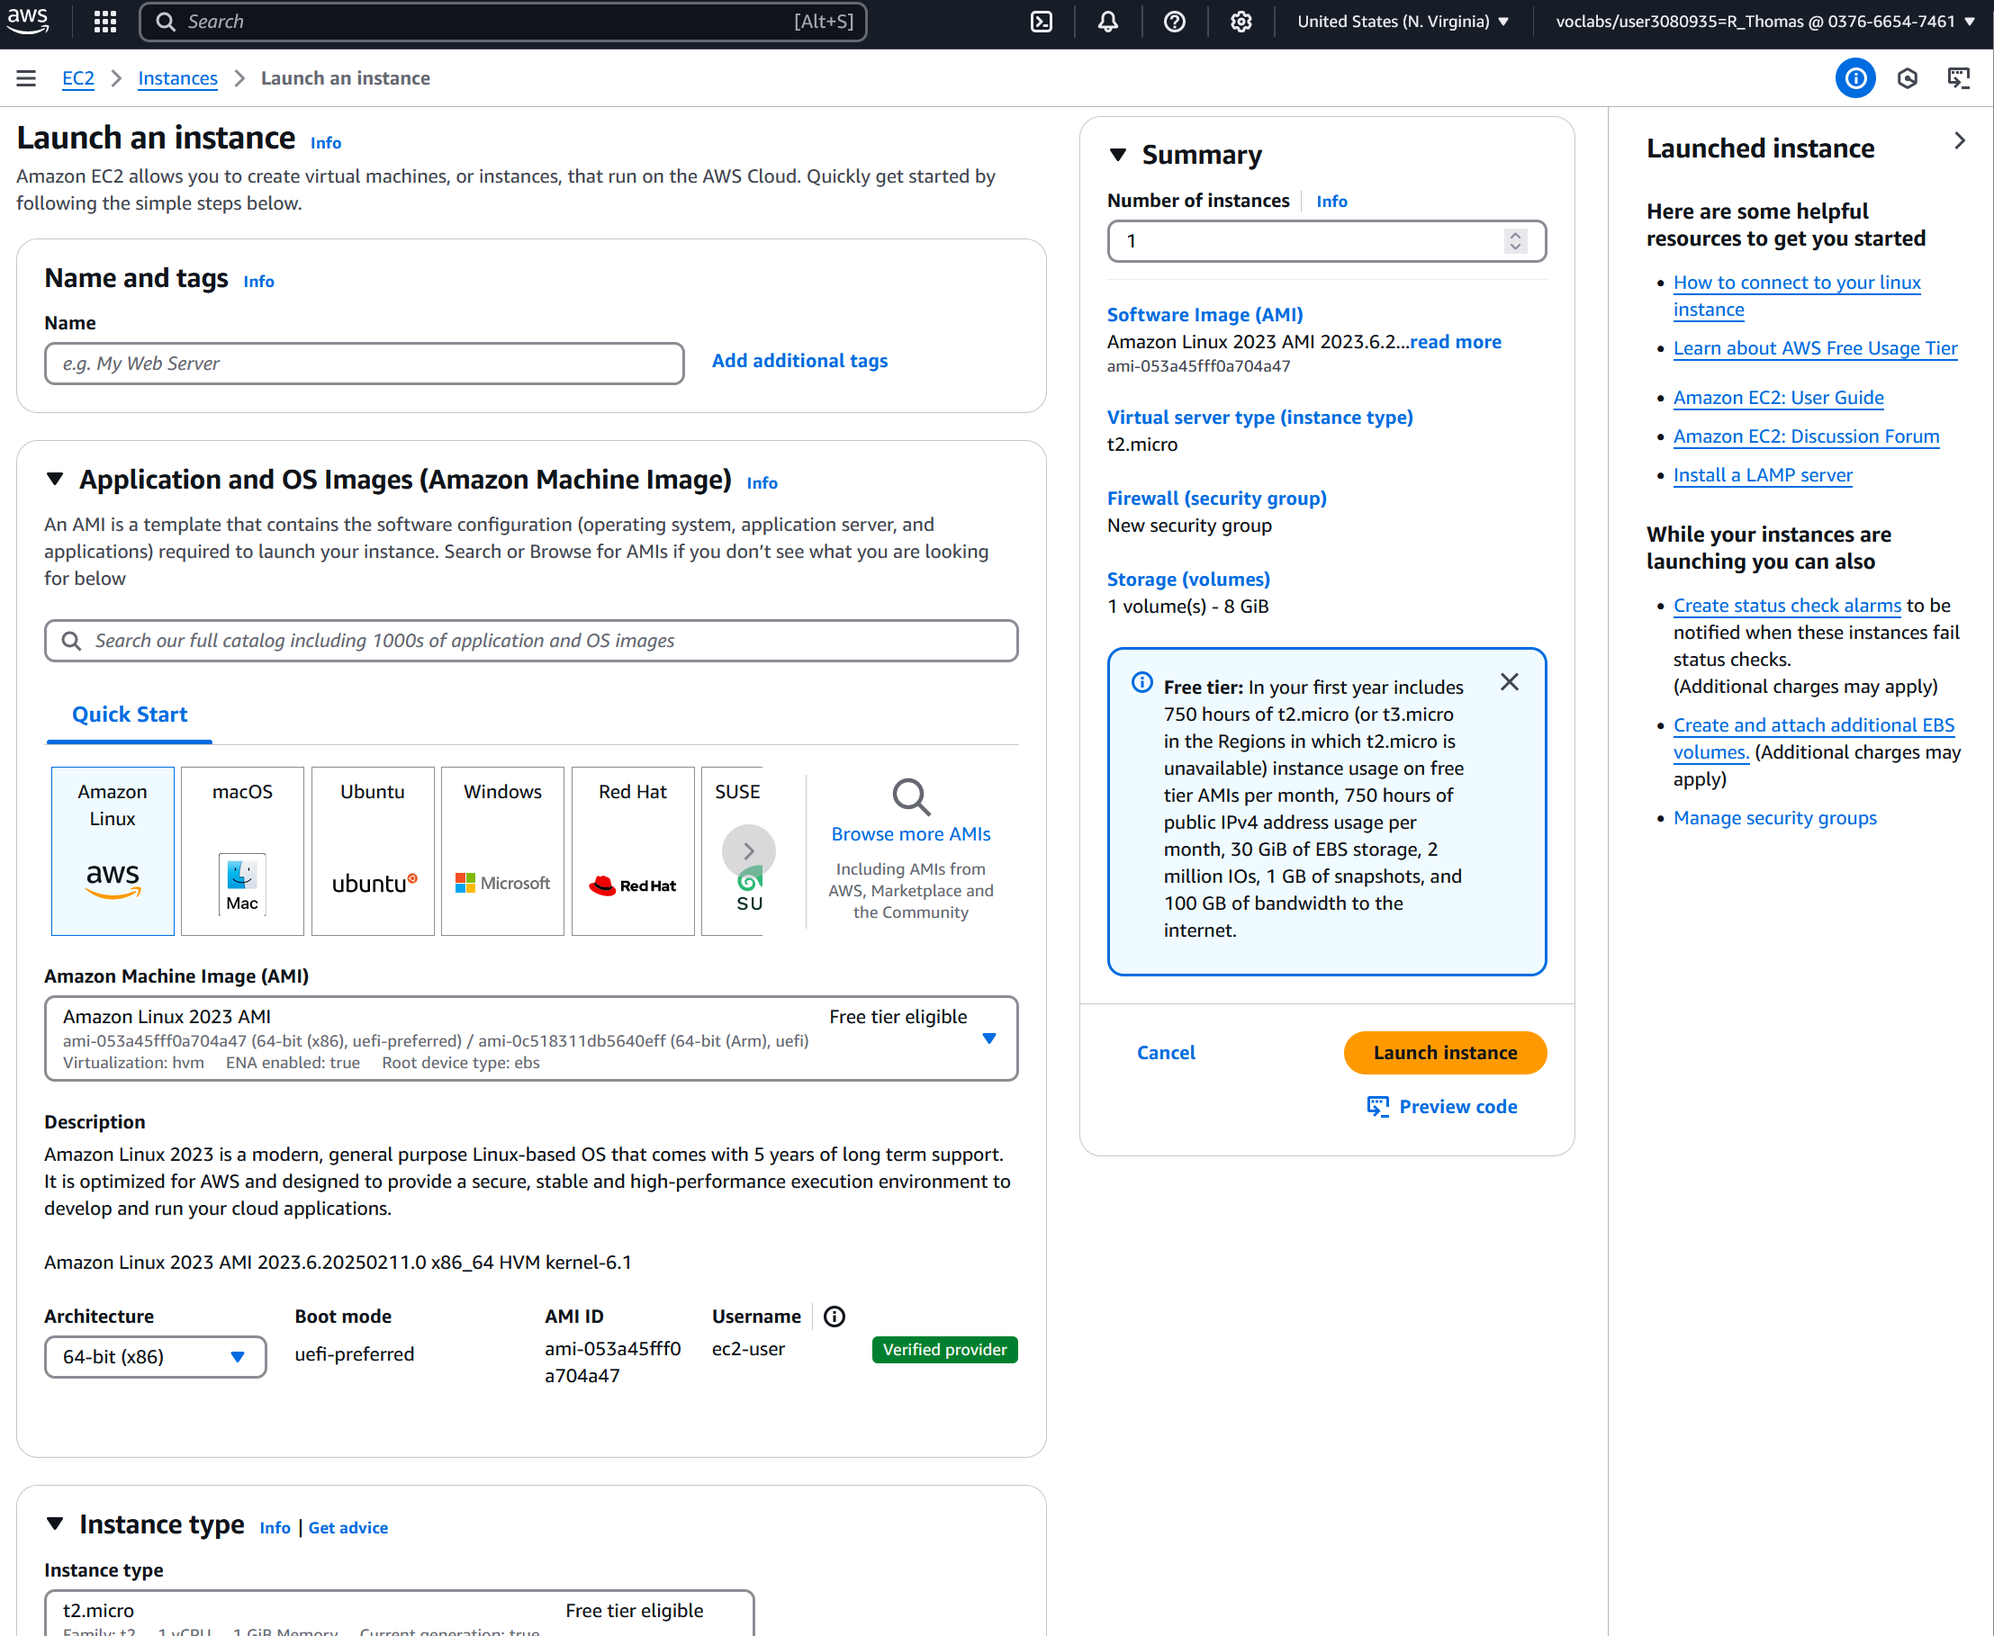
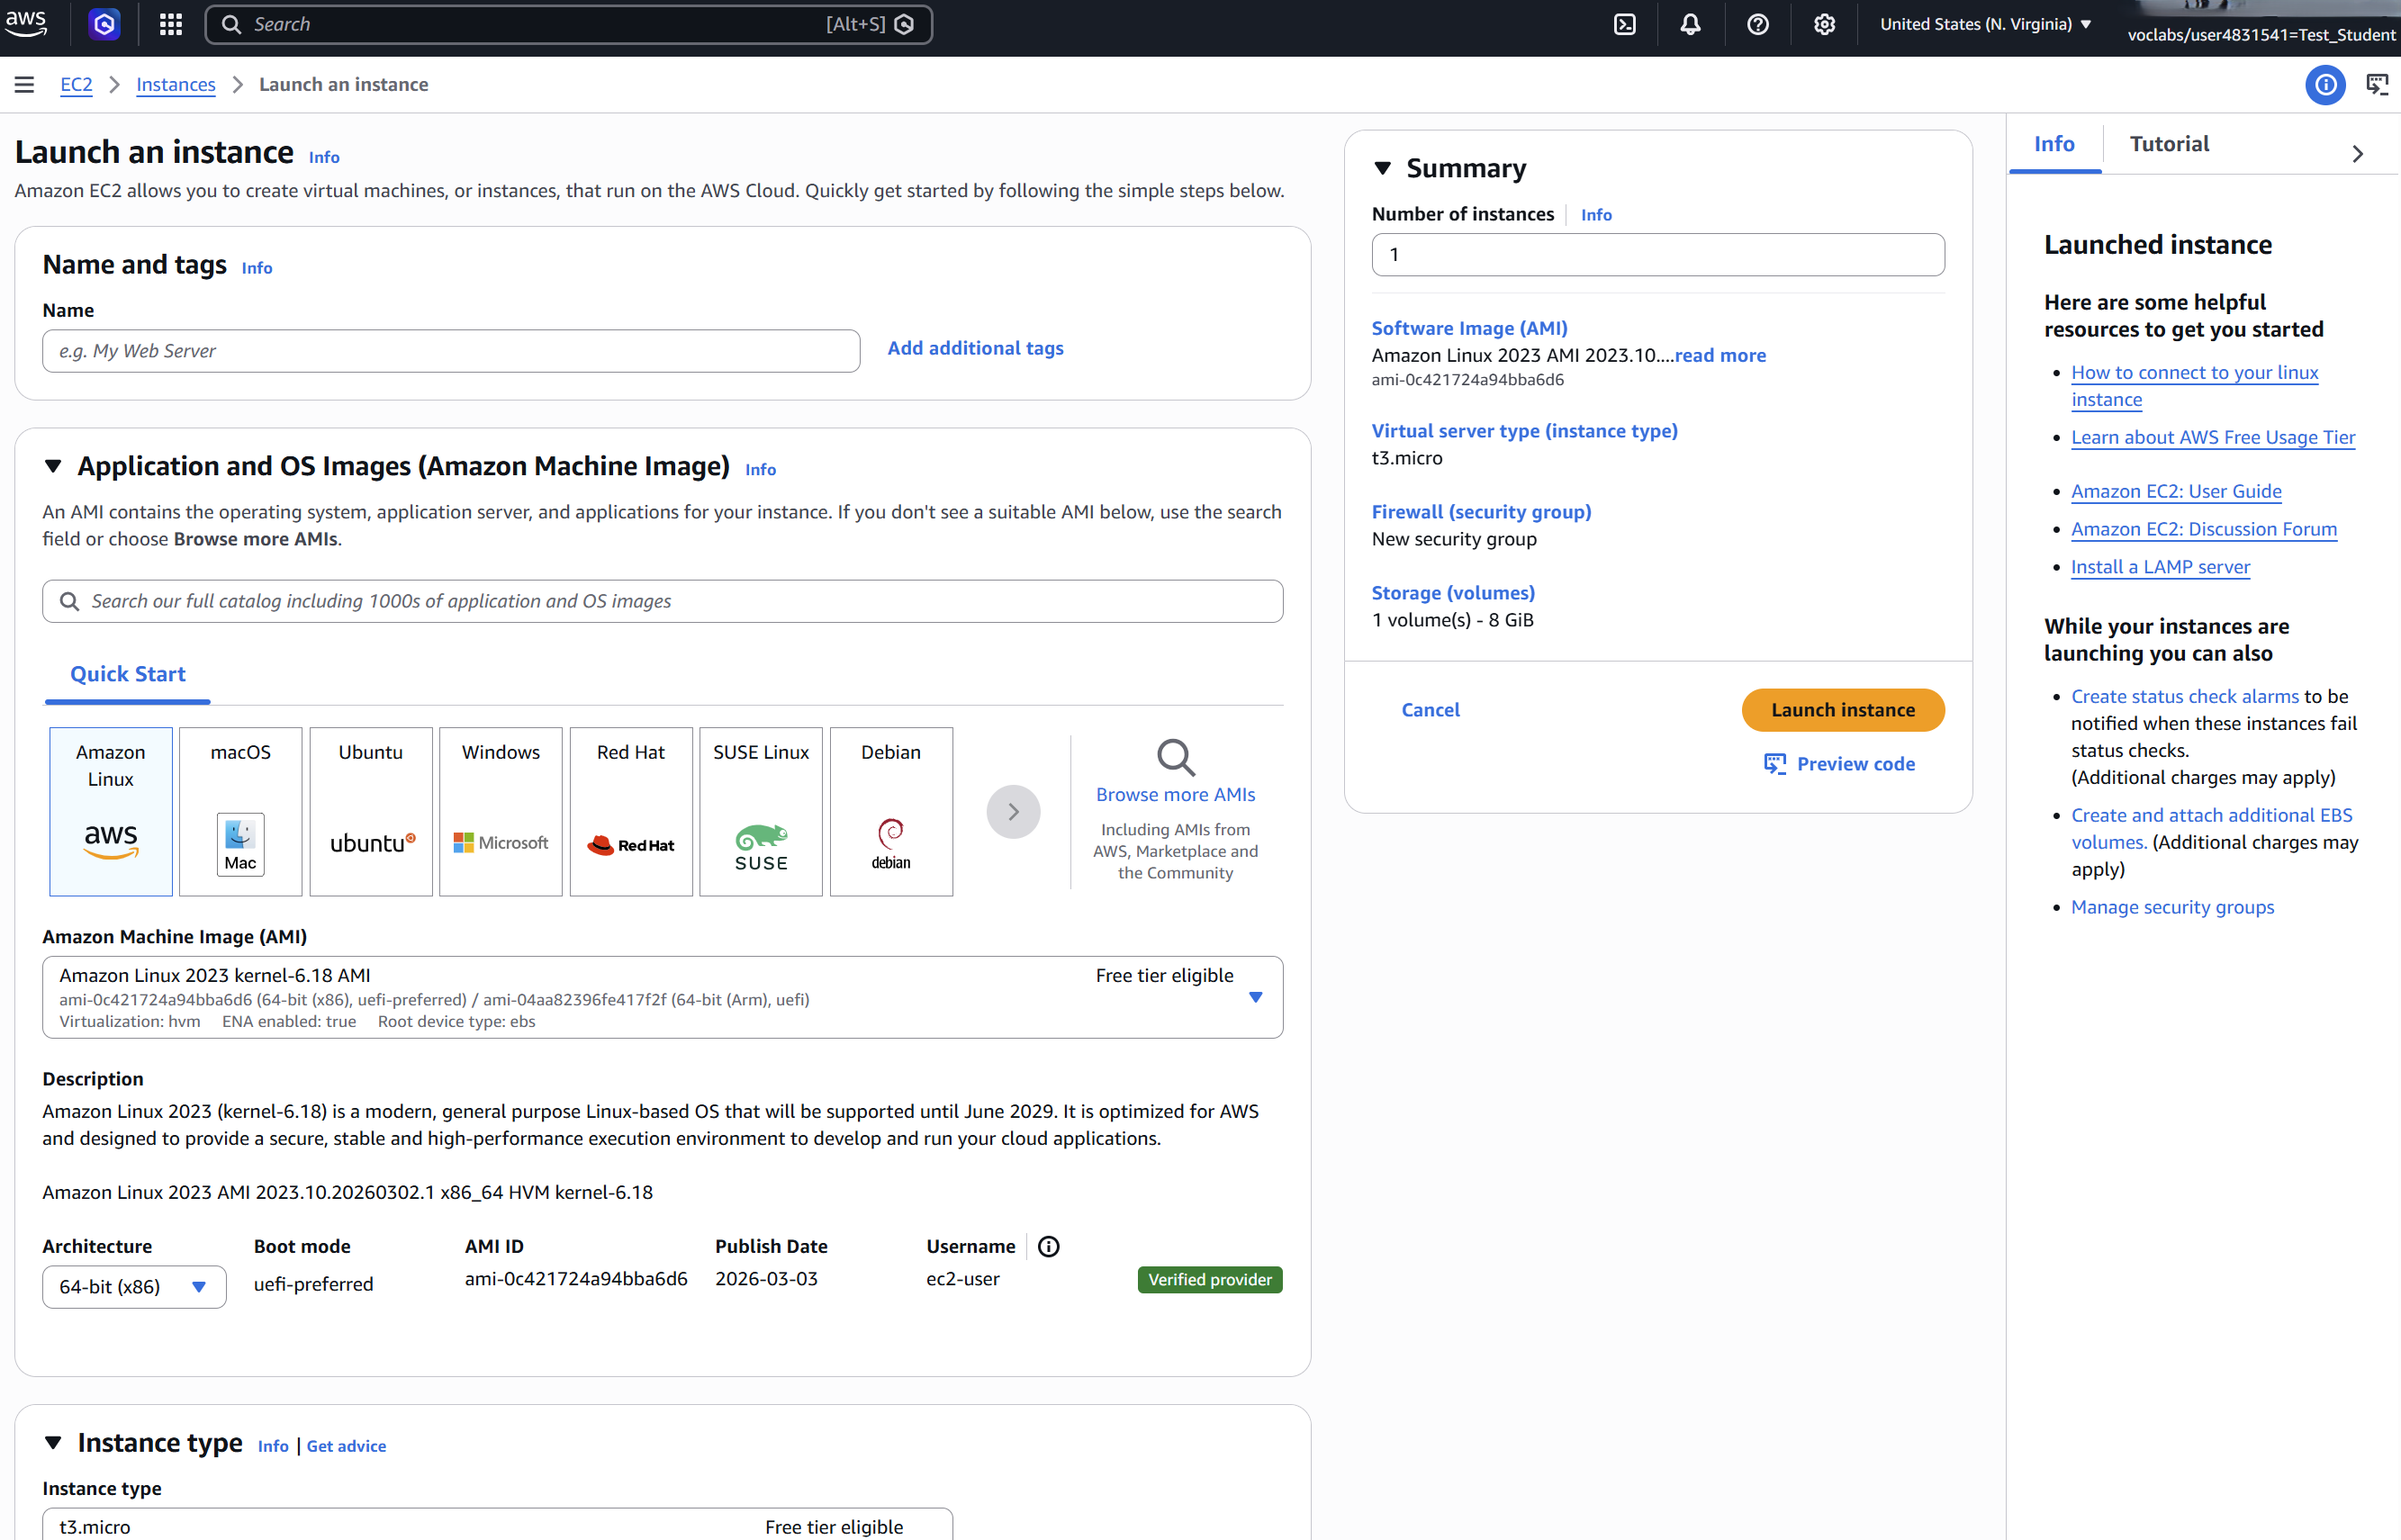
Minor updates to week 4 prac for 2026.

diff --git a/practicals/week04/main.tex b/practicals/week04/main.tex
@@ -1,6 +1,7 @@
 \documentclass{csse4400}
 
 \usepackage{languages}
+\usepackage{changepage}
 
 \title{Getting Started with the Cloud}
 \author{Brae Webb \& Richard Thomas \& Evan Hughes}
@@ -29,7 +30,7 @@ Also install the Terraform plugin for your IDE.
 
 \section{This Week}
 Our goal is to get acquainted with AWS Academy Learner Lab.
-We use the lab to learn how to deploy and manage infrastructure with AWS.
+You will use the lab to learn how to deploy and manage infrastructure with AWS.
 Additionally, Learner Lab will be used to develop the Cloud Infrastructure assignment.
 If you have not already enrolled in the AWS Academy courses, you need to do so now.
 \begin{itemize}
@@ -96,25 +97,28 @@ Amazon offers a range of built-in AMIs. There are also community AMIs or you can
 As we just want a simple server today, we will use one of the built-in AMIs.
 
 We will use the Amazon Linux 2023 AMI today,
-it is considered one of the fundamental images.
-Every AMI has a unique AMI code,
-which is \texttt{ami-08b5b3a93ed654d19} for the Amazon Linux 2023 AMI.
+it is a general purpose image.
+Every AMI has a unique AMI code, which changes every time the image is updated.
+A recent AMI for the Amazon Linux 2023 is \texttt{ami-0c421724a94bba6d6}.
 %Search for it via the code and select it.
 
-\vspace{3mm}
-\noindent
-\includegraphics[width=\textwidth]{images/launch-instance}
-
 \teacher{This AMI is a RedHat style distro with \texttt{yum} as its package manager.}
+
+\begin{center}
+  \noindent
+  \begin{adjustwidth}{-8mm}{-8mm}
+    \includegraphics[width=0.96\paperwidth]{images/launch-instance}
+  \end{adjustwidth}
+\end{center}
 
 \subsection{Instance Settings}
 The settings to configure your instance are:
 \begin{enumerate}
 \item Add a `Name' tag. Call it the name of your website, e.g. \texttt{hextris}.
-\item Select an appropriate AMI, i.e. Amazon Linux 2023 AMI, \texttt{ami-053a45fff0a704a47}.
+\item Select an appropriate AMI (e.g. Amazon Linux kernel-6.18 2023 AMI, \texttt{ami-0c421724a94bba6d6}). You may need to select the drop down list to see it, or search for it by its AMI.
 \item Select a 64-bit (x86) architecture.
 \item The instance type defines the computing, memory, networking and storage capabilities of your instance. We do not need a large server, choose \texttt{t2.micro}.
-\item Select the existing \texttt{vockey} (Type: RSA) key pair option.
+\item For Key pair (login), select the existing \texttt{vockey} (Type: rsa) key pair option.
 \item In network settings, choose `Create security group' and select to allow SSH traffic from anywhere, and HTTPS and HTTP access from the internet.
 \item Keep the `Configure storage' settings as default.
 \item Do not worry about the `Advanced details' options for now.
@@ -210,7 +214,7 @@ Is this ok [y/N]:
 ..... 
 Complete!
 > sudo systemctl enable httpd
-Created symlink from /etc/systemd/system/multi-user.target.wants/httpd.service to /usr/lib/systemd/system/httpd.service.
+Created symlink /etc/systemd/system/multi-user.target.wants/httpd.service to /usr/lib/systemd/system/httpd.service.
 > sudo systemctl start httpd
 \end{code}
 
@@ -336,14 +340,14 @@ Add the following basic \texttt{resource} block to \texttt{main.tf}:
 
 \begin{code}[language=terraform,numbers=none]{main.tf}
 resource "aws_instance" "hextris-server" {
-    ami           = "ami-08b5b3a93ed654d19"
+    ami           = "ami-0c421724a94bba6d6"
     instance_type = "t2.micro"
     key_name      = "vockey"
     
     tags = {
         Name = "hextris"
     }
-}      
+}
 \end{code}
 
 To create the server, invoke \texttt{terraform apply},
@@ -361,7 +365,7 @@ Terraform will perform the following actions:
 
   # aws_instance.hextris-server will be created
   + resource "aws_instance" "hextris-server" {
-      + ami                                  = "ami-08b5b3a93ed654d19"
+      + ami                                  = "ami-0c421724a94bba6d6"
       (omitted)
       + instance_type                        = "t2.micro"
       (omitted)
@@ -380,7 +384,7 @@ Do you want to perform these actions?
   Enter a value: 
 \end{code}
 
-If the plan looks sensible enter \texttt{yes} to enact the changes.
+If the plan looks sensible, enter \texttt{yes} to enact the changes.
 
 \begin{code}[numbers=none]{}
   Enter a value: yes
@@ -409,7 +413,7 @@ systemctl start httpd
 
 yum install -y git
 cd /var/www/html
-git clone https://github.com/Hextris/hextris .  
+git clone https://github.com/Hextris/hextris .
 \end{code}
 
 \teacher{The hash bang is required.}
@@ -427,7 +431,7 @@ user_data = file("./serve-hextris.sh")
 
 If you run the \texttt{terraform plan} command now,
 you will notice that Terraform has identified that this change will require creating a new EC2 instance.
-Where possible, Terraform will try to update a resource in-place
+Where possible, Terraform will try to update a resource in-place,
 but since this changes how an instance is started, it needs to be replaced.
 Go ahead and apply the changes.
 
@@ -439,12 +443,12 @@ We \textit{could} go to the AWS Console and find the public IP address.
 However, it turns out that Terraform already knows the public IP address.
 In fact, if you open the Terraform state file (\texttt{terraform.tfstate}),
 you should be able to find it hidden away in there.
-But, we do not want to go hunting through this file all the time.
+We do not want to go hunting through this file all the time.
 Instead we will use the \texttt{output} keyword.
 
 We can specify certain attributes as `output' attributes.
-Output attributes are printed to the terminal when the module is invoked directly
-but as we will see later, they can also be used by other Terraform configuration files.
+Output attributes are printed to the terminal when the module is invoked directly but,
+as we will see later, they can also be used by other Terraform configuration files.
 
 \vspace{-1em}
 \begin{code}[language=terraform,numbers=none]{main.tf}
@@ -500,8 +504,8 @@ When we setup our EC2 instance using the AWS Console,
 it helpfully created a new security group for us.
 We specified that this security group should allow SSH, HTTP, and HTTPS traffic by allowing traffic from ports 22, 80, and 443 respectively.
 When configuring with Terraform, security groups and their attachment to EC2 instances are separate resources.
-Refer back to the Terraform documentation for details or,
-as is normally quicker, \href{https://www.google.com/search?q=terraform+aws+security+group}{Google ``terraform aws security group''}.
+Refer to the Terraform documentation for details or, as is often quicker,
+\href{https://www.google.com/search?q=terraform+aws+security+group}{Google ``terraform aws security group''}.
 
 First, let us create an appropriate security group.
 Recall that in the AWS Console configuration,
@@ -588,7 +592,7 @@ You should be prompted to confirm that you want to destroy all of the resources 
 Once Terraform has finished taking everything down,
 confirm that you can no longer access the website and that the AWS console says the instances have been destroyed.
 
-Now go ahead and apply the changes to bring everything back:
+Now go ahead and apply the changes to bring everything back.
 \bash{terraform apply}
 
 Confirm that this brings the website back exactly as before (with a different IP address).
@@ -606,7 +610,7 @@ A quick note about automated testing.
 As with all the practicals thus far,
 this practical has automated tests enabled on your repository.
 
-From within your repository, you can run the tests locally with:
+From within your repository, the following script will run the tests locally.
 \bash{.csse6400/bin/unittest.sh}
 
 While the emails saying that the tests failed can be annoying,
@@ -663,10 +667,10 @@ To use the data source we need to change the \texttt{ami} attribute of the \text
 
 \begin{code}[language=terraform,numbers=none]{}
 resource "aws_instance" "hextris-server" {
-  ami           = data.aws_ami.latest.id
-  instance_type = "t2.micro"
-  key_name      = "vockey"
-  user_data = file("./serve-hextris.sh")
+  ami             = data.aws_ami.latest.id
+  instance_type   = "t2.micro"
+  key_name        = "vockey"
+  user_data       = file("./serve-hextris.sh")
   security_groups = [aws_security_group.hextris-server.name]
 
   tags = {
@@ -675,8 +679,8 @@ resource "aws_instance" "hextris-server" {
 }
 \end{code}
 
-And now, if we run \texttt{terraform plan}, we will see that it wants to destroy and recreate the EC2 instance.
-This is because the AMI has changed since this practical was first updated for this year.
+If we run \texttt{terraform plan}, we may see that it wants to destroy and recreate the EC2 instance.
+This would be because the AMI has changed since this practical was last updated.
 
 
 \bibliographystyle{ieeetr}
@@ -695,7 +699,7 @@ it can help decrease latency and reduce risk from a major disaster.
 Generally, pick a region and stick with it.
 We have picked \texttt{us-east-1} because it is the least expensive.
 
-\begin{figure}[ht]
+\begin{figure}[t!]
 \includegraphics[width=\textwidth]{images/aws_regions}
 \caption{AWS Regions as of March 2025 \cite{aws-regions}}
 \end{figure}
